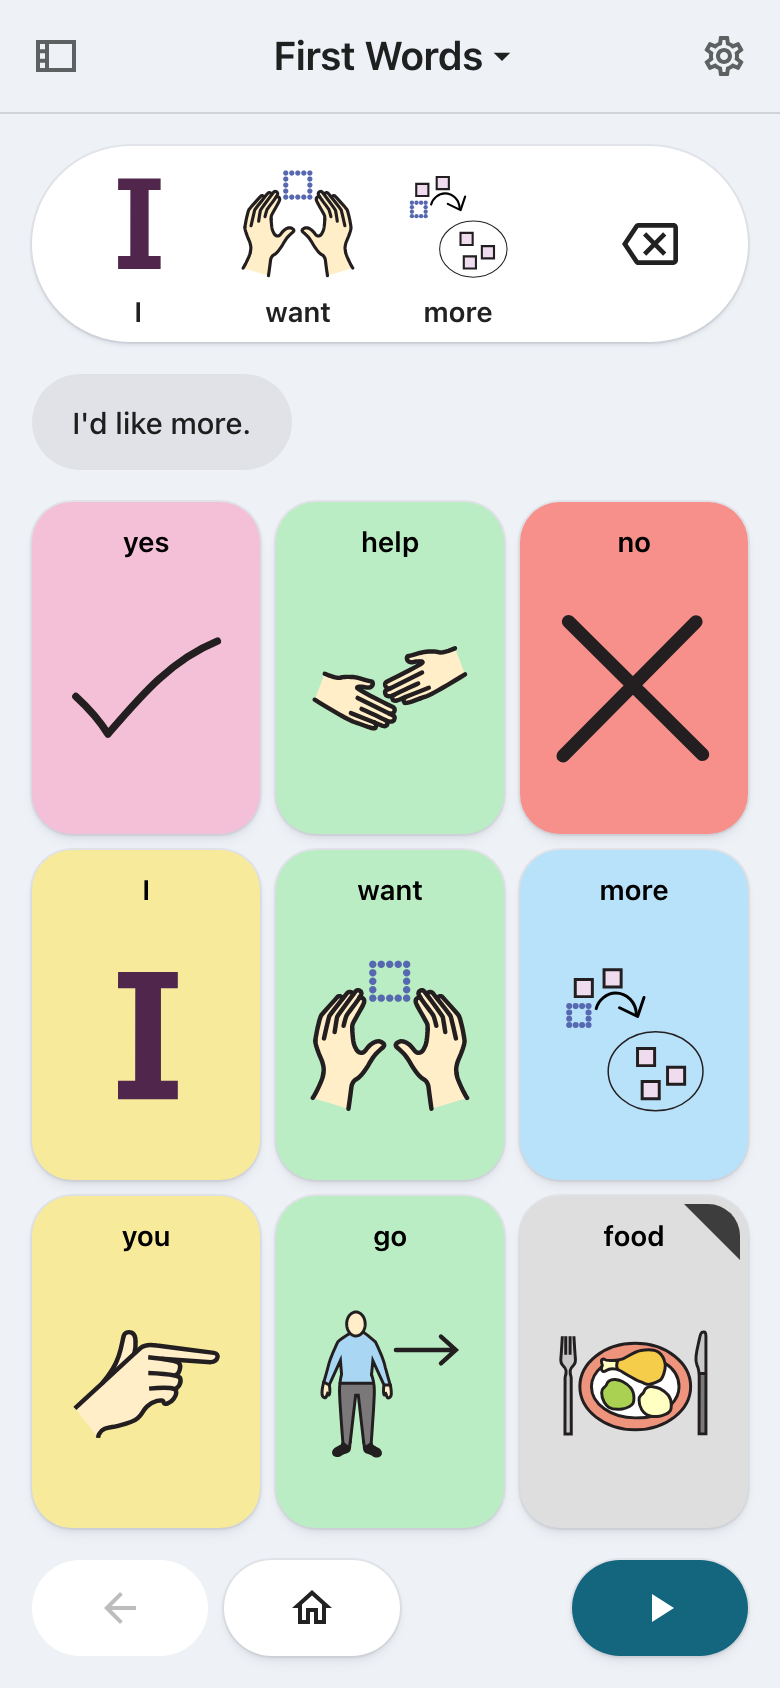
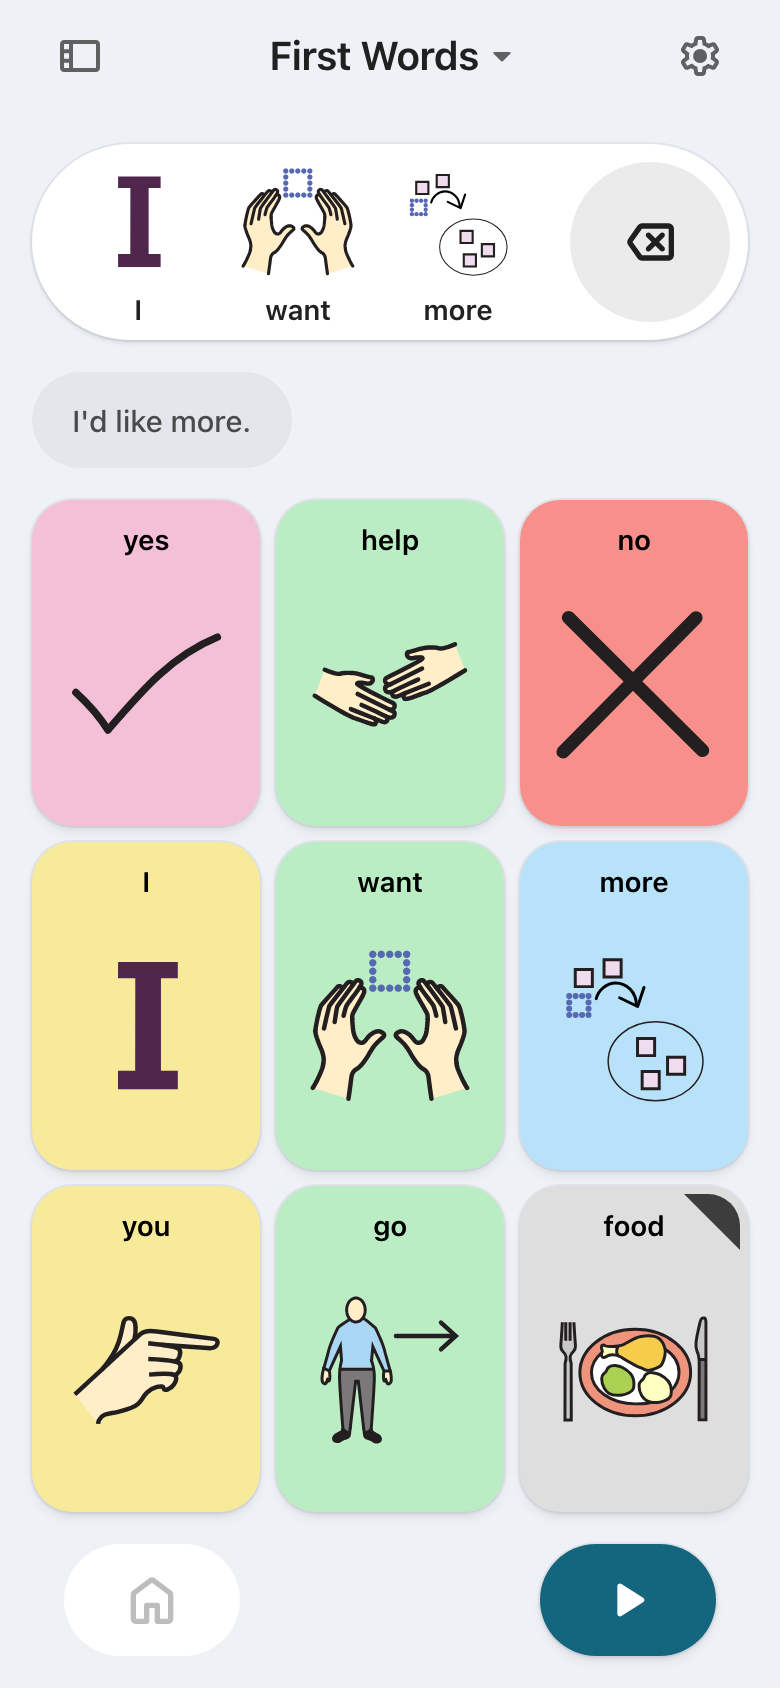
Balance board control sizes (#1379)

diff --git a/src/features/board/communication-board.test.tsx b/src/features/board/communication-board.test.tsx
@@ -363,8 +363,8 @@ describe("CommunicationBoard", () => {
         isPlayBelowGrid: true,
         // Inset toward the thumb, twice the page margin.
         playEnd: 32,
-        // The shared 28px icon and the pill's 12px padding.
-        playHeight: 28 + 2 * 12,
+        // The shared 32px icon and the pill's 12px padding.
+        playHeight: 32 + 2 * 12,
         messageBarStart: 16,
         // As tall as backspace, 80px, with the bar's 8px inset and 1px border.
         messageBarHeight: 80 + 2 * 8 + 2 * 1,
@@ -459,65 +459,26 @@ describe("CommunicationBoard", () => {
         expect(atEnd.topHint).toBeCloseTo(overflowHint, 0);
       },
     );
-  });
 
-  describe("message row icons", () => {
-    test.each([
-      { name: "a tablet", width: 1024, height: 703 },
-      { name: "a desktop window", width: 1440, height: 900 },
-    ])(
-      "gives home backspace's icon, lighter than play's, on $name",
-      async ({ width, height }) => {
+    test.each(LAYOUT_CASES)(
+      "uses consistent control icons and a full-size backspace on $name",
+      async ({ width, height, isPlayBelowGrid }) => {
         await setTestViewport(width, height);
         const screen = await renderCommunicationBoard(LARGE_GRID_BOARD);
         await expect.element(screen.getByRole("grid")).toBeVisible();
 
-        const button = (name: string) => screen.getByRole("button", { name });
-        const home = iconSize(button("Go home"));
-        const backspace = iconSize(button("Backspace"));
-        const play = iconSize(button("Speak message"));
+        const home = screen.getByRole("button", { name: "Go home" });
+        const backspace = screen.getByRole("button", { name: "Backspace" });
+        const play = screen.getByRole("button", { name: "Speak message" });
+        const backspaceSize = backspace.element().getBoundingClientRect();
+        const playSize = play.element().getBoundingClientRect();
 
-        expect(home).toBe(backspace);
-        expect(backspace).toBeLessThan(play);
-      },
-    );
-
-    test.each([
-      { name: "a phone on its side", width: 874, height: 354 },
-      { name: "a wide, short desktop window", width: 1440, height: 531 },
-    ])(
-      "gives the smaller backspace the app bar's icon size on $name",
-      async ({ width, height }) => {
-        await setTestViewport(width, height);
-        const screen = await renderCommunicationBoard(LARGE_GRID_BOARD);
-        await expect.element(screen.getByRole("grid")).toBeVisible();
-
-        const button = (name: string) => screen.getByRole("button", { name });
-        const home = iconSize(button("Go home"));
-        const backspace = iconSize(button("Backspace"));
-
-        expect(backspace).toBe(24);
-        expect(backspace).toBeLessThan(home);
-      },
-    );
-
-    test.each([
-      { name: "a tablet", width: 1024, height: 704 },
-      { name: "a phone on its side", width: 874, height: 354 },
-    ])(
-      "keeps backspace a step smaller than play on $name",
-      async ({ width, height }) => {
-        await setTestViewport(width, height);
-        const screen = await renderCommunicationBoard(LARGE_GRID_BOARD);
-        await expect.element(screen.getByRole("grid")).toBeVisible();
-
-        const widthOf = (name: string) =>
-          screen.getByRole("button", { name }).element().getBoundingClientRect()
-            .width;
-
-        expect(widthOf("Backspace") / widthOf("Speak message")).toBeCloseTo(
-          0.8,
-          1,
+        expect([iconSize(home), iconSize(backspace), iconSize(play)]).toEqual([
+          32, 32, 32,
+        ]);
+        expect(backspaceSize.width).toBe(isPlayBelowGrid ? 80 : playSize.width);
+        expect(backspaceSize.height).toBe(
+          isPlayBelowGrid ? 80 : playSize.height,
         );
       },
     );

diff --git a/src/features/board/message/backspace-button.tsx b/src/features/board/message/backspace-button.tsx
@@ -6,7 +6,6 @@ import type { Theme } from "@mui/material/styles";
 import { m } from "@paraglide/messages.js";
 import { useTranslate } from "@shared/language/use-translate";
 import { flipForRTL } from "@shared/theme/rtl";
-import { shortLandscape } from "@shared/theme/short-landscape";
 import { focusableDisabledProps } from "@shared/ui/focusable-disabled";
 import { BackspaceIcon } from "@shared/ui/icons";
 import { ShortcutTooltip } from "@shared/ui/shortcut-tooltip";
@@ -14,9 +13,7 @@ import { useState } from "react";
 import { mergeProps, useLongPress, usePress } from "react-aria";
 import {
   CONTROL_ICON_SIZE,
-  CONTROL_SIZE_PROPERTY,
-  CONTROL_SIZES,
-  SMALL_CONTROL_ICON_SIZE,
+  MESSAGE_CONTROL_SIZE,
 } from "../board-control-sizes";
 import { BOARD_SHORTCUT_ARIA_KEYS } from "../shortcuts/resolve-board-shortcut";
 import type { BoardShortcutLabels } from "../shortcuts/use-board-shortcut-labels";
@@ -28,16 +25,8 @@ const LONG_PRESS_THRESHOLD_MS = RING_DELAY_MS + RING_FILL_MS;
 // stroke; MUI's default would outweigh the icon's lines.
 const RING_THICKNESS = 2.2;
 
-const BUTTON_SIZES = {
-  medium: CONTROL_SIZES.medium,
-  large: `var(${CONTROL_SIZE_PROPERTY}, ${CONTROL_SIZES.large}px)`,
-} as const;
-
-type BackspaceButtonSize = keyof typeof BUTTON_SIZES;
-
 interface BackspaceButtonProps {
   disabled?: boolean;
-  size?: BackspaceButtonSize;
   shortcutLabels: Pick<BoardShortcutLabels, "clear" | "spokenClear">;
   onPress: () => void;
   onLongPress: () => void;
@@ -45,7 +34,6 @@ interface BackspaceButtonProps {
 
 export function BackspaceButton({
   disabled = false,
-  size = "large",
   shortcutLabels,
   onPress,
   onLongPress,
@@ -72,7 +60,7 @@ export function BackspaceButton({
         {...focusableDisabledProps(disabled)}
         aria-label={t(m.messageBackspace)}
         aria-keyshortcuts={BOARD_SHORTCUT_ARIA_KEYS.backspace}
-        sx={(theme) => backspaceSx(theme, size)}
+        sx={backspaceSx}
       >
         <BackspaceIcon fontSize="inherit" sx={flipForRTL} />
 
@@ -94,20 +82,14 @@ export function BackspaceButton({
 // scheme resolves the action tokens in both themes. MUI clears a disabled icon
 // button's fill; it stays to keep the button's shape, and the dark-mode bar's
 // grey needs a heavier disabled icon.
-function backspaceSx(theme: Theme, size: BackspaceButtonSize) {
-  const targetSize = BUTTON_SIZES[size];
+function backspaceSx(theme: Theme) {
   const { action } = theme.vars.palette;
 
   return {
     flexShrink: 0,
-    width: targetSize,
-    height: targetSize,
+    width: MESSAGE_CONTROL_SIZE,
+    height: MESSAGE_CONTROL_SIZE,
     fontSize: CONTROL_ICON_SIZE,
-    [shortLandscape(theme)]: {
-      width: CONTROL_SIZES.small,
-      height: CONTROL_SIZES.small,
-      fontSize: SMALL_CONTROL_ICON_SIZE,
-    },
     color: "text.primary",
     [`&, &.${iconButtonClasses.disabled}`]: {
       backgroundColor: action.selected,

diff --git a/src/features/board/playback/play-button.tsx b/src/features/board/playback/play-button.tsx
@@ -10,12 +10,12 @@ import {
   BoardControlButton,
   type BoardControlShape,
 } from "../board-control-button";
-import { CONTROL_SIZE_PROPERTY, CONTROL_SIZES } from "../board-control-sizes";
+import {
+  CONTROL_ICON_SIZE,
+  MESSAGE_CONTROL_SIZE,
+} from "../board-control-sizes";
 import { BOARD_SHORTCUT_ARIA_KEYS } from "../shortcuts/resolve-board-shortcut";
 import type { BoardShortcutLabels } from "../shortcuts/use-board-shortcut-labels";
-
-const PLAY_SIZE = `var(${CONTROL_SIZE_PROPERTY}, ${CONTROL_SIZES.large}px)`;
-const PLAY_ICON_SIZE = 36;
 
 interface PlayButtonProps {
   disabled?: boolean;
@@ -71,8 +71,8 @@ export function PlayButton({
         onClick={disabled ? undefined : handleClick}
         sx={(theme) => ({
           flexShrink: 0,
-          width: PLAY_SIZE,
-          height: PLAY_SIZE,
+          width: MESSAGE_CONTROL_SIZE,
+          height: MESSAGE_CONTROL_SIZE,
           [`&, &:active, &.${fabClasses.focusVisible}`]: { boxShadow: "none" },
           [`&.${fabClasses.disabled}`]: {
             ...disabledSx(theme),
@@ -80,7 +80,7 @@ export function PlayButton({
           },
         })}
       >
-        <Icon sx={{ fontSize: PLAY_ICON_SIZE }} />
+        <Icon sx={{ fontSize: CONTROL_ICON_SIZE }} />
       </Fab>
     </ShortcutTooltip>
   );
@@ -101,8 +101,7 @@ function disabledSx(theme: Theme) {
   };
 }
 
-// The bar's dark-mode grey is a step darker than white, which mutes the tint;
-// a heavier glyph keeps play at least as visible as the backspace beside it.
+// The bar's dark-mode grey mutes the tint, so play needs more contrast here.
 function disabledOnDarkBarSx(theme: Theme) {
   return { color: theme.alpha(theme.vars.palette.primary.main, 0.6) };
 }

diff --git a/src/features/board/board-control-sizes.ts b/src/features/board/board-control-sizes.ts
@@ -1,15 +1,7 @@
-// Medium is a step below play's large, so play stays the message row's main
-// action. A short landscape screen drops every control to medium, and backspace
-// to small (MUI's large icon button) to stay a step below play.
-export const CONTROL_SIZES = { small: 52, medium: 64, large: 80 } as const;
+export const CONTROL_SIZES = { medium: 64, large: 80 } as const;
 
-// Material 3's icon size for an 80px button, used by every control, round or
-// pill; only round play is heavier.
-export const CONTROL_ICON_SIZE = 28;
-
-// MUI's default icon size, as in the app bar, for the small control: 28px
-// would crowd a 52px button.
-export const SMALL_CONTROL_ICON_SIZE = 24;
+export const CONTROL_ICON_SIZE = 32;
 
 // Set by the message bar, so its largest control cannot outgrow it.
 export const CONTROL_SIZE_PROPERTY = "--control-size";
+export const MESSAGE_CONTROL_SIZE = `var(${CONTROL_SIZE_PROPERTY}, ${CONTROL_SIZES.large}px)`;

diff --git a/src/features/board/communication-board.tsx b/src/features/board/communication-board.tsx
@@ -93,7 +93,6 @@ export function CommunicationBoard({
   const backspaceButton = (
     <BackspaceButton
       disabled={!hasMessage}
-      size={areControlsBelowGrid ? "large" : "medium"}
       shortcutLabels={shortcutLabels}
       onPress={message.backspace}
       onLongPress={message.clear}

diff --git a/docs/behavior.md b/docs/behavior.md
@@ -462,21 +462,18 @@ them the same in everything but size:
 ### Screen sizes
 
 Layout turns on one width breakpoint, `sm`. Above it the home button sits in
-the message bar's row, before the bar, as a round button the size of its play
-button, so the row has one large button at each end. Its icon is backspace's
-size, a step lighter than play's, so play stays the main action, except where
-backspace shrinks on a short landscape screen.
-Backspace and the play button sit inside the bar at its end, play last and
-backspace a step smaller beside it. Backspace has a light tonal fill, as MUI
-gives a filled default chip, so play stays the bar's one solid shape; the fill
-stays when backspace is off, and the hold ring traces its edge. Suggestions
+the message bar's row, before the bar. The round home, backspace, and play
+buttons are 80px across. Backspace and play sit inside the bar at its end,
+with play last. All three controls use 32px icons in every layout.
+Backspace uses the light tonal fill of a filled MUI chip, and play's primary
+fill emphasizes the action. The tonal fill stays when backspace is off, and
+the hold ring traces its edge. Suggestions
 have the row below to themselves, and without them the grid starts under the
 message bar. Below `sm`
 the home and play buttons move under the grid as two pills of one width, with
-backspace's icon size, home at the start and play at the far end, with the room
-that is left between them. The row is inset twice the page margin, 32px, so the
-thumb reaches both without stretching. Below it is the page margin or the home
-indicator's inset, whichever is larger, as iOS's own bars sit.
+home at the start and play at the far end. The row is inset 32px, twice the
+page margin, so the thumb reaches both without stretching. Below it is the page
+margin or the home indicator's inset, whichever is larger, as in iOS's own bars.
 Backspace stays in the message bar at full size, and the spacing tightens, as
 [Board spacing](#board-spacing) describes.
 
@@ -491,9 +488,7 @@ what such a screen lacks, so:
   width up: iOS hides the status bar there, so the toolbar's own height is the
   only room above them.
 - The message bar drops to a compact height, 64px and its inset, with smaller
-  symbols, and play and the home button shrink to fit it. Backspace shrinks a
-  step further, to 52px, so it stays smaller than play as it is on larger
-  screens, and its icon to MUI's default 24px, as in the app bar.
+  symbols. Home, backspace, and play are all 64px across.
 - The [welcome dialog](../src/app/onboarding/onboarding-dialog.tsx) stays
   full-screen with its action in view.
 
